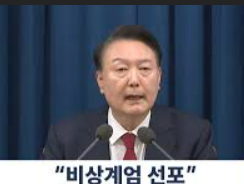
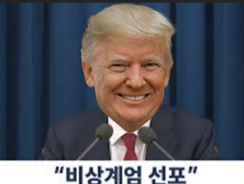
Add files via upload

diff --git a/objects/MartialLaw.js b/objects/MartialLaw.js
@@ -10,7 +10,7 @@ export default class MartialLaw extends Phaser.Physics.Arcade.Sprite {
 
     initializeDialogue() {
         if (!this.dialogueInitialized) {
-            this.showDialogue("2024년 12월 3일\n대한민국에 비상 계엄을 선포한다\n-대통령 윤석렬-\nMartial Law\nDeclared in Korea!!!", () => {
+            this.showDialogue("2024년 12월 3일\n대한민국에 비상 계엄을 선포한다\n-대통령 트럼프-\nMartial Law\nDeclared in Korea!!!", () => {
                 console.log("Dialogue finished");
                 // You can add any additional logic here
             });
@@ -33,19 +33,5 @@ export default class MartialLaw extends Phaser.Physics.Arcade.Sprite {
         this.dialogueText = this.scene.add.text(this.x - 190, this.y + 125, text, textConfig);
         this.dialogueText.setOrigin(0, 0);
 
-        // this.scene.time.delayedCall(3000, () => {
-        //     this.scene.tweens.add({
-        //         targets: [this, this.dialogueText],
-        //         alpha: 0,
-        //         duration: 500,
-        //         onComplete: () => {
-        //             this.setVisible(false);
-        //             this.dialogueText.destroy();
-        //             if (callback) {
-        //                 callback();
-        //             }
-        //         }
-        //     });
-        // });
     }     
 }

diff --git a/scenes/StartScene.js b/scenes/StartScene.js
@@ -26,16 +26,7 @@ export default class StartScene extends SceneSkipManager {
         // Adjust the background to cover the entire scene
         this.background.displayWidth = this.sys.game.config.width;
         this.background.displayHeight = this.sys.game.config.height;
-
-        // //  A simple background for our game
-        // let background = this.add.image(width / 2, height / 2, 'background');        
         
-        // // Scale the background to cover the entire canvas
-        // let scaleX = width / background.width;
-        // let scaleY = height / background.height;
-        // let scale = Math.max(scaleX, scaleY);
-        // background.setScale(scale);
-
         // create the martialLaw object
         this.martialLawDeclared = new MartialLaw(this, width/2, width/3); 
         

diff --git a/scenes/GameScene1.js b/scenes/GameScene1.js
@@ -34,9 +34,10 @@ export default class GameScene1 extends BaseGameScene {
         this.background.setDepth(-1);
         
         // Apply new candlelight properties
-        this.candleLightScale = data?.candleLightScale || 0.2;
-        this.candleLightSpeed = data?.candleLightSpeed || 600;
-        this.fireRate = data?.fireRate || 600; // Set fire rate from data
+        this.candleLightScale = 0.4;
+        this.candleLightSpeed = 1000;
+        this.fireRate = 200;
+        // this.fireRate = data?.fireRate || 600; // Set fire rate from data
       
         // mission target initialized
         this.missionTarget1 = this.physics.add.sprite(this.width/2, this.height/5, 'getTogether');

diff --git a/scenes/GameScene3.js b/scenes/GameScene3.js
@@ -33,9 +33,9 @@ export default class GameScene3 extends BaseGameScene {
         this.background.setDepth(-1);
         
          // Apply new candlelight properties
-         this.candleLightScale = 0.5;
-         this.candleLightSpeed = 1500;
-         this.fireRate = 200; // Set fire rate from data
+         this.candleLightScale = 0.9;
+         this.candleLightSpeed = 1000;
+         this.fireRate = 100; // Set fire rate from data
 
         // Add event listener for mission completion
         this.events.on('missionComplete', this.onMissionComplete, this);

diff --git a/scenes/GameScene2.js b/scenes/GameScene2.js
@@ -40,9 +40,9 @@ export default class GameScene2 extends GameScene1 {
         this.backgroundForScene2.setAlpha(0.2);
         
         // Apply new candlelight properties
-        this.candleLightScale = 0.4;
+        this.candleLightScale = 0.6;
         this.candleLightSpeed = 1000;
-        this.fireRate = 300; // Set fire rate from data
+        this.fireRate = 150; // Set fire rate from data
 
         this.nextFire = 0;
 

diff --git a/objects/missionManager/MissionManager1.js b/objects/missionManager/MissionManager1.js
@@ -7,7 +7,7 @@ export default class MissionManager1 extends BaseMissionManager {
         this.missionCompleted = false;
         this.bombsDestroyed = 0;
         this.swatsDestroyed = 0;
-        this.requiredDestroys = 100;
+        this.requiredDestroys = 10;
         this.firstConditionMet = false;
     }
 

diff --git a/objects/missionManager/MissionManager3.js b/objects/missionManager/MissionManager3.js
@@ -6,7 +6,7 @@ export default class MissionManager3 extends BaseMissionManager {
         super(scene);
         this.bdsDestroyed = 0;
         // this.choppersDestroyed = 0;
-        this.requiredDestroys = 10000;
+        this.requiredDestroys = 100;
         this.firstConditionMet = false;
     }
 

diff --git a/objects/missionManager/MissionManager2.js b/objects/missionManager/MissionManager2.js
@@ -6,7 +6,7 @@ export default class MissionManager2 extends BaseMissionManager {
         super(scene);
         this.bombsDestroyed = 0;
         this.choppersDestroyed = 0;
-        this.requiredDestroys = 200;
+        this.requiredDestroys = 30;
         this.firstConditionMet = false;
     }
 
